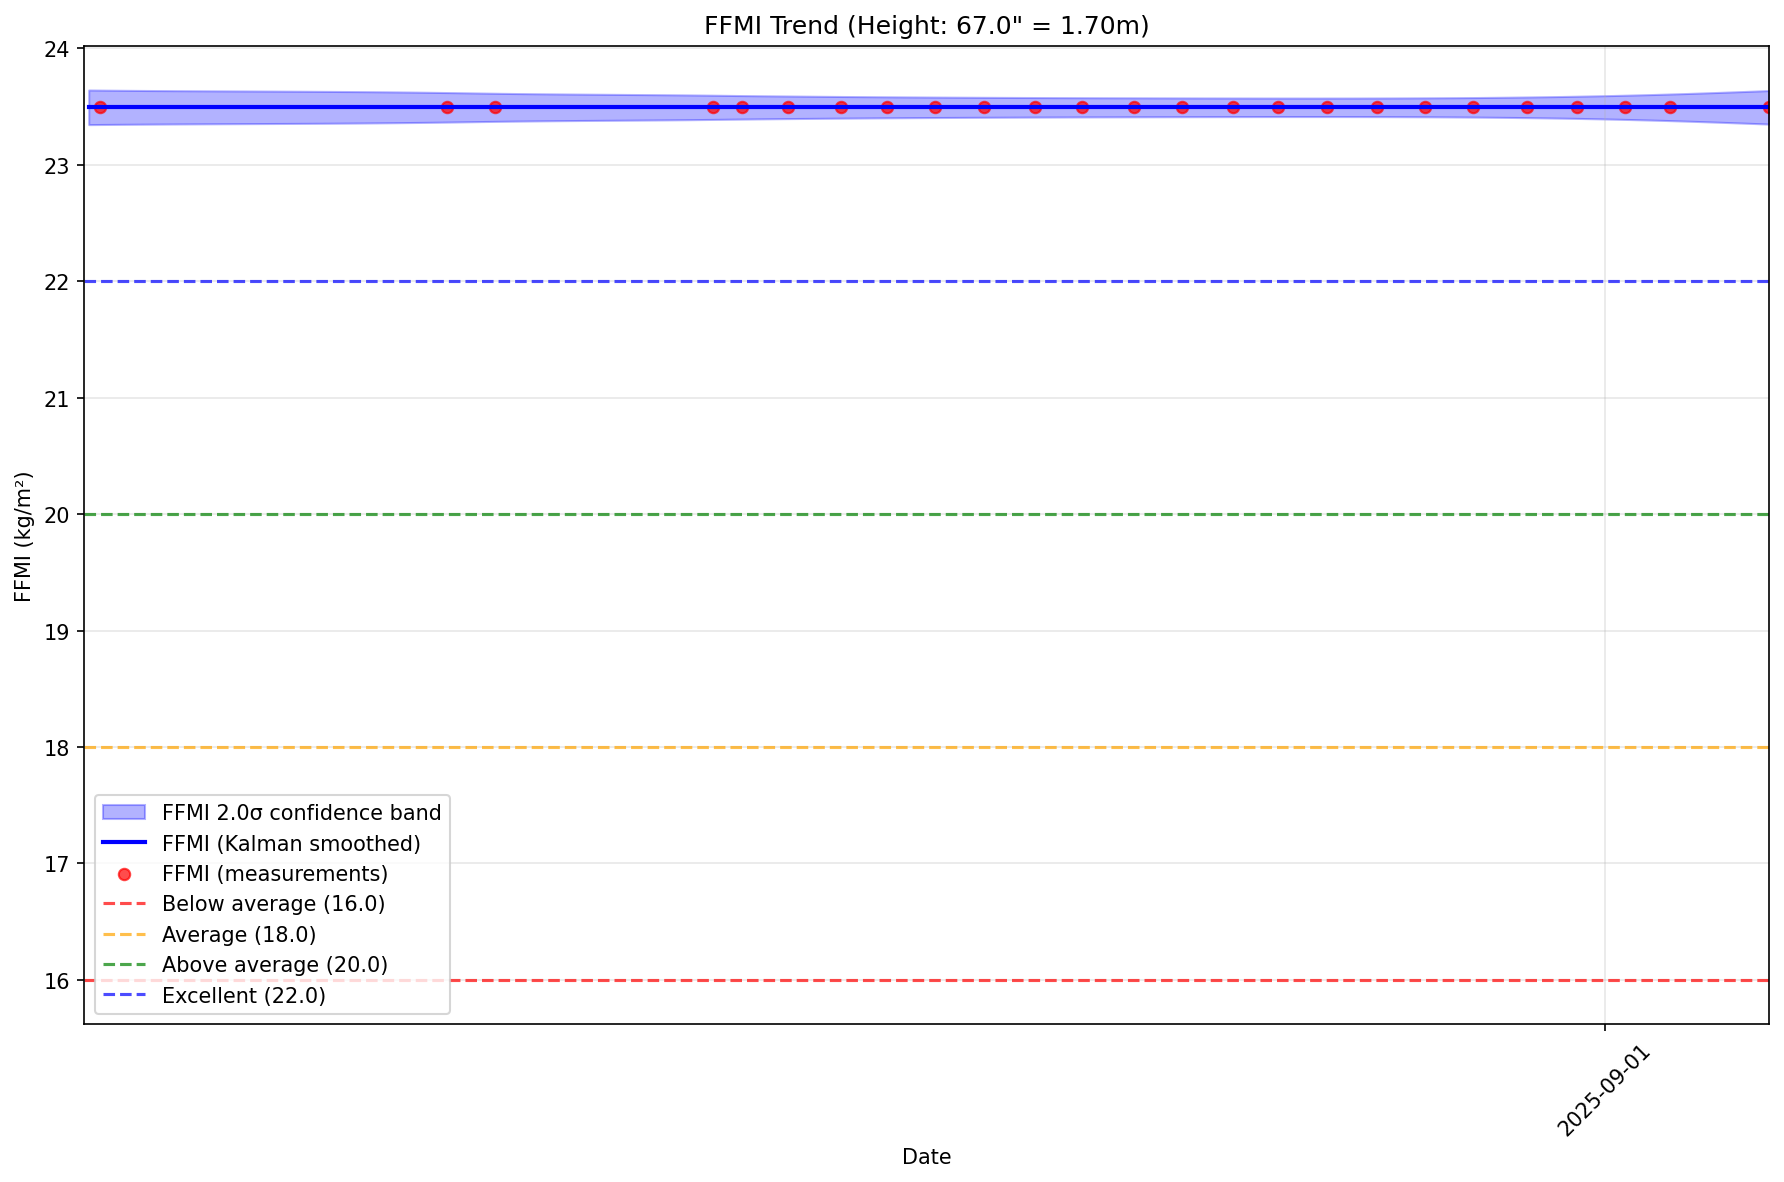
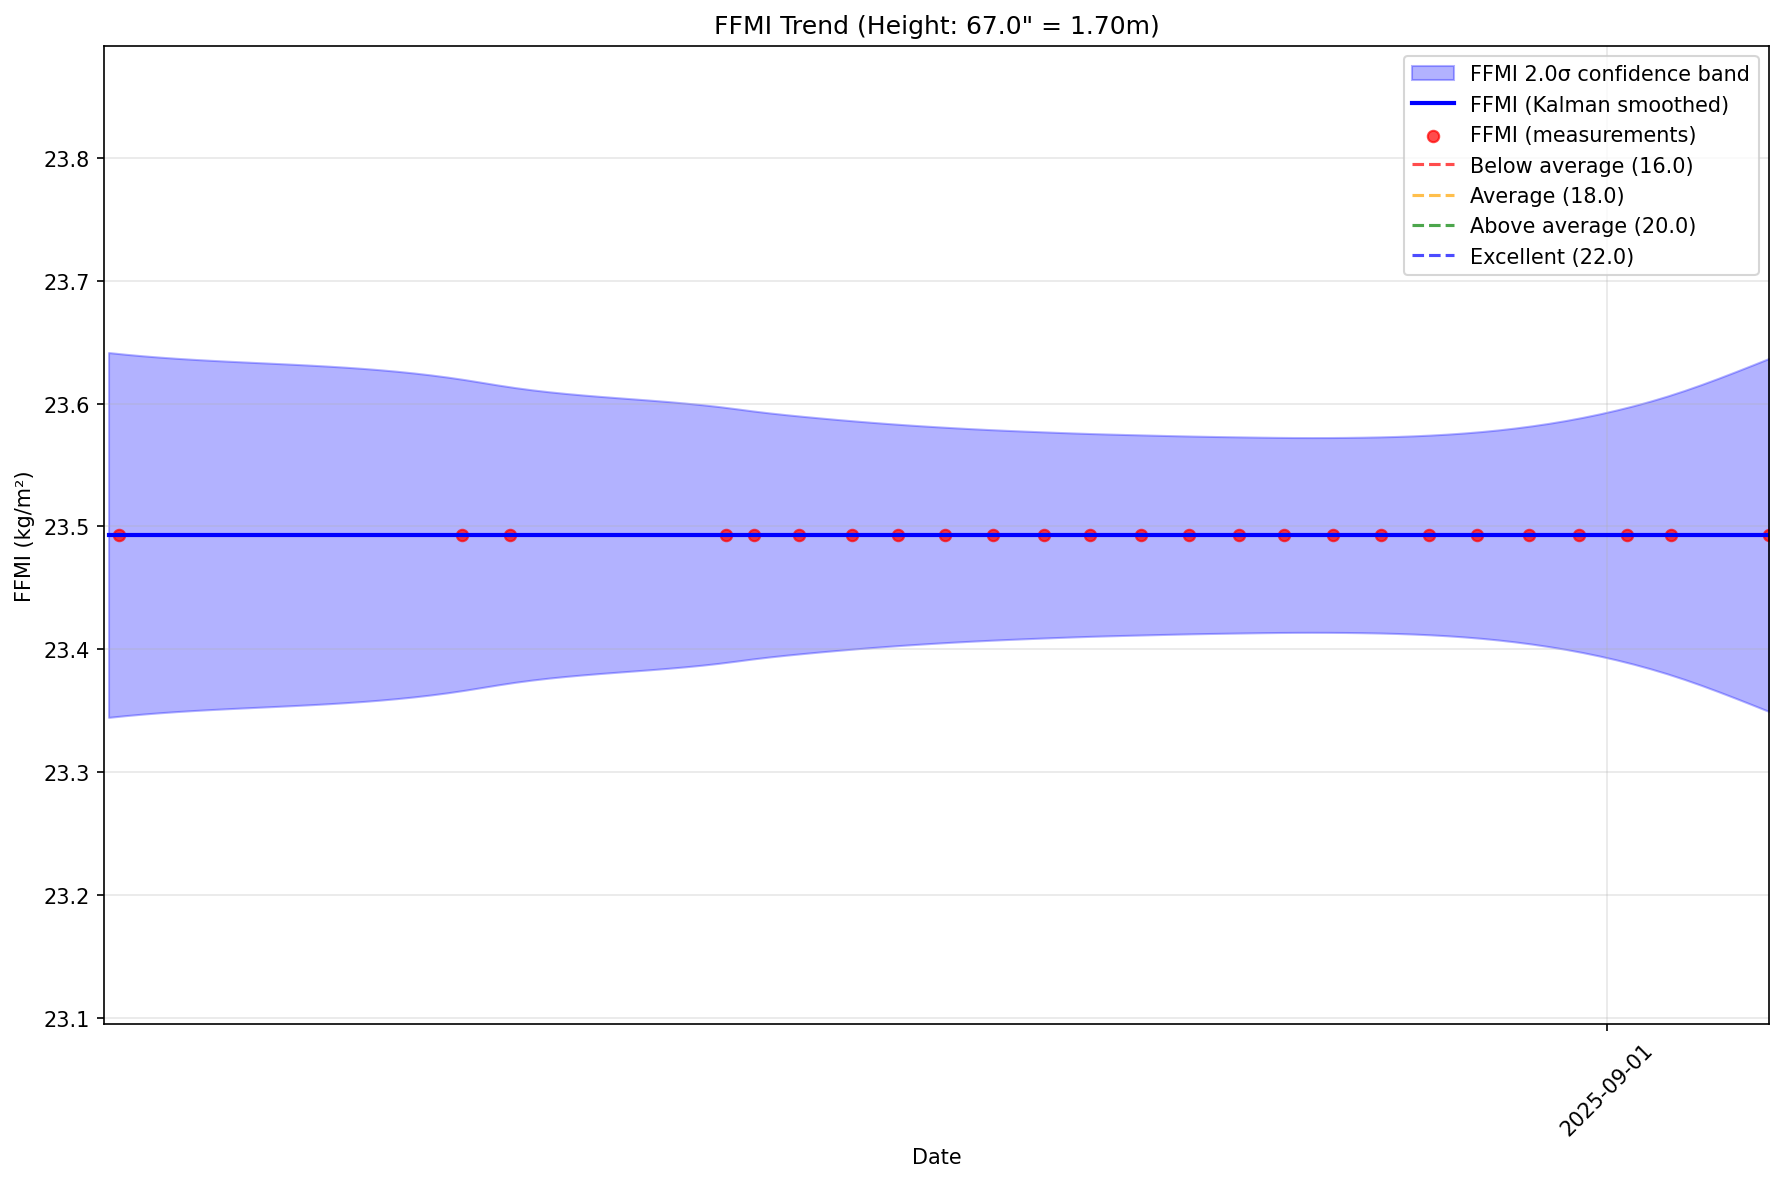
fixed plot range issues

diff --git a/kalman.py b/kalman.py
@@ -625,8 +625,10 @@ def create_kalman_plot(entries,
              linewidth=2, label=label, 
              antialiased=True, solid_capstyle='round')
     
-    # Plot raw data
-    raw_weights = [e.weight for e in entries]
+    # Plot raw data (filter to selected date range for display)
+    plotted_entries = filtered_entries if (start_date or end_date) else entries
+    entry_datetimes = [e.entry_datetime for e in plotted_entries]
+    raw_weights = [e.weight for e in plotted_entries]
     plt.scatter(entry_datetimes, raw_weights, s=50, color='blue', 
                 alpha=0.7, label='Raw Measurements', zorder=5)
     
@@ -683,26 +685,48 @@ Forecasts:
     plt.grid(True, alpha=0.3)
     plt.legend()
     
-    # Set x-axis limits based on date filtering
+    # Set x-axis limits based on filtered dense curve for a natural view
+    dense_min = min(dense_datetimes) if dense_datetimes else (min(entry_datetimes) if entry_datetimes else None)
+    dense_max = max(dense_datetimes) if dense_datetimes else (max(entry_datetimes) if entry_datetimes else None)
     if start_date or end_date:
-        min_datetime = min(dates) if dates else None
-        max_datetime = max(dates) if dates else None
-        if start_date:
-            start_datetime = dt.combine(start_date, dt.min.time())
-            plt.xlim(left=start_datetime)
-        elif min_datetime is not None:
-            plt.xlim(left=min_datetime)
-        if end_date:
-            end_datetime = dt.combine(end_date, dt.max.time())
-            plt.xlim(right=end_datetime)
-        elif max_datetime is not None:
-            plt.xlim(right=max_datetime)
+        left = dt.combine(start_date, dt.min.time()) if start_date else dense_min
+        right = dt.combine(end_date, dt.max.time()) if end_date else dense_max
     else:
-        # Default to full data range when no explicit start/end dates are provided
-        if dates:
-            min_datetime = min(dates)
-            max_datetime = max(dates)
-            plt.xlim(left=min_datetime, right=max_datetime)
+        left, right = dense_min, dense_max
+    if left is not None and right is not None and left <= right:
+        span = right - left
+        pad = max(span * 0.02, timedelta(days=1))
+        left_pad = left if start_date else (left - pad)
+        right_pad = right if end_date else (right + pad)
+        plt.xlim(left=left_pad, right=right_pad)
+    
+    # After setting x-limits, set Y-limits based on visible series (bands, mean, points)
+    try:
+        y_values: List[float] = []
+        if lower_band and upper_band:
+            y_values.extend([float(v) for v in lower_band])
+            y_values.extend([float(v) for v in upper_band])
+        if dense_means:
+            y_values.extend([float(v) for v in dense_means])
+        if raw_weights:
+            y_values.extend([float(v) for v in raw_weights])
+        if y_values:
+            y_min = float(np.nanmin(np.array(y_values, dtype=float)))
+            y_max = float(np.nanmax(np.array(y_values, dtype=float)))
+            if not np.isfinite(y_min) or not np.isfinite(y_max):
+                raise ValueError("Non-finite y-range")
+            if y_min == y_max:
+                y_pad = 0.5 if y_min == 0 else abs(y_min) * 0.05
+                plt.ylim(y_min - y_pad, y_max + y_pad)
+            else:
+                y_span = y_max - y_min
+                y_pad = max(0.02 * y_span, 0.25)
+                plt.ylim(y_min - y_pad, y_max + y_pad)
+    except Exception:
+        # Fallback to autoscale if anything goes wrong
+        ax = plt.gca()
+        ax.relim()
+        ax.autoscale_view(scalex=False, scaley=True)
     
     plt.tight_layout()
     
@@ -908,8 +932,25 @@ def create_bodyfat_plot_from_kalman(
     plt.plot(dense_datetimes, bf_mid, "-", color="#1f77b4", linewidth=2.4,
              label="Midline (10% lean, 90% fat)")
 
-    # Scatter actual points under mid assumption
-    plt.scatter(entry_datetimes, entry_bf_mid, s=36, color="#1f77b4", alpha=0.8,
+    # Scatter actual points under mid assumption (filter entries for display)
+    if start_date or end_date:
+        ed_filtered_dt = []
+        ed_filtered_bf = []
+        for dt_i, bf_i in zip(entry_datetimes, entry_bf_mid):
+            d = dt_i.date()
+            if start_date and d < start_date:
+                continue
+            if end_date and d > end_date:
+                continue
+            ed_filtered_dt.append(dt_i)
+            ed_filtered_bf.append(bf_i)
+        entry_datetimes_plot = ed_filtered_dt
+        entry_bf_mid_plot = ed_filtered_bf
+    else:
+        entry_datetimes_plot = entry_datetimes
+        entry_bf_mid_plot = entry_bf_mid
+
+    plt.scatter(entry_datetimes_plot, entry_bf_mid_plot, s=36, color="#1f77b4", alpha=0.8,
                 edgecolors="white", linewidths=0.5, zorder=5, label="Mid assumption (measurements)")
 
     # Stats panel: current estimate, rate, and forecasts (1wk, 1mo)
@@ -1026,27 +1067,49 @@ def create_bodyfat_plot_from_kalman(
     plt.grid(True, alpha=0.3)
     plt.legend()
     
-    # Set x-axis limits based on date filtering
+    # Set x-axis using filtered dense range with padding so bands stay inside
+    dense_min = min(dense_datetimes) if dense_datetimes else None
+    dense_max = max(dense_datetimes) if dense_datetimes else None
     if start_date or end_date:
-        min_datetime = min(dates) if dates else None
-        max_datetime = max(dates) if dates else None
-        if start_date:
-            start_datetime = dt.combine(start_date, dt.min.time())
-            plt.xlim(left=start_datetime)
-        elif min_datetime is not None:
-            plt.xlim(left=min_datetime)
-        if end_date:
-            end_datetime = dt.combine(end_date, dt.max.time())
-            plt.xlim(right=end_datetime)
-        elif max_datetime is not None:
-            plt.xlim(right=max_datetime)
+        left = dt.combine(start_date, dt.min.time()) if start_date else dense_min
+        right = dt.combine(end_date, dt.max.time()) if end_date else dense_max
     else:
-        # Default to full data range when no explicit start/end dates are provided
-        if dates:
-            min_datetime = min(dates)
-            max_datetime = max(dates)
-            plt.xlim(left=min_datetime, right=max_datetime)
+        left, right = dense_min, dense_max
+    if left is not None and right is not None and left <= right:
+        span = right - left
+        pad = max(span * 0.02, timedelta(days=1))
+        left_pad = left if start_date else (left - pad)
+        right_pad = right if end_date else (right + pad)
+        plt.xlim(left=left_pad, right=right_pad)
     
+    # After setting x-limits, compute Y-limits from visible series
+    try:
+        y_values: List[float] = []
+        # Confidence band and midline
+        y_values.extend([float(v) for v in bf_band_lower])
+        y_values.extend([float(v) for v in bf_band_upper])
+        y_values.extend([float(v) for v in bf_mid])
+        # Optional scenario bounds
+        if show_scenarios:
+            y_values.extend([float(v) for v in bf_lower_bound])
+            y_values.extend([float(v) for v in bf_upper_bound])
+        # Scatter points
+        y_values.extend([float(v) for v in entry_bf_mid_plot])
+        if y_values:
+            y_min = float(np.nanmin(np.array(y_values, dtype=float)))
+            y_max = float(np.nanmax(np.array(y_values, dtype=float)))
+            if y_min == y_max:
+                y_pad = 0.5 if y_min == 0 else abs(y_min) * 0.05
+                plt.ylim(y_min - y_pad, y_max + y_pad)
+            else:
+                y_span = y_max - y_min
+                y_pad = max(0.02 * y_span, 0.25)
+                plt.ylim(y_min - y_pad, y_max + y_pad)
+    except Exception:
+        ax = plt.gca()
+        ax.relim()
+        ax.autoscale_view(scalex=False, scaley=True)
+
     plt.tight_layout()
     plt.savefig(output_path, dpi=150, bbox_inches="tight")
     if no_display:
@@ -1217,8 +1280,25 @@ def create_bmi_plot_from_kalman(
     # BMI mean line
     plt.plot(dense_datetimes, bmi_means, "b-", linewidth=2, label="BMI (Kalman smoothed)")
 
-    # Scatter points for actual measurements
-    plt.scatter(entry_datetimes, entry_bmi, color="red", s=30, alpha=0.7, label="BMI (measurements)")
+    # Scatter points for actual measurements (filter for display if date range set)
+    if start_date or end_date:
+        ed_filtered_dt = []
+        ed_filtered_bmi = []
+        for dt_i, bmi_i in zip(entry_datetimes, entry_bmi):
+            d = dt_i.date()
+            if start_date and d < start_date:
+                continue
+            if end_date and d > end_date:
+                continue
+            ed_filtered_dt.append(dt_i)
+            ed_filtered_bmi.append(bmi_i)
+        entry_datetimes_plot = ed_filtered_dt
+        entry_bmi_plot = ed_filtered_bmi
+    else:
+        entry_datetimes_plot = entry_datetimes
+        entry_bmi_plot = entry_bmi
+
+    plt.scatter(entry_datetimes_plot, entry_bmi_plot, color="red", s=30, alpha=0.7, label="BMI (measurements)")
 
     # BMI categories
     plt.axhline(y=18.5, color="green", linestyle="--", alpha=0.7, label="Underweight (18.5)")
@@ -1236,27 +1316,45 @@ def create_bmi_plot_from_kalman(
     plt.gca().xaxis.set_major_locator(plt.matplotlib.dates.MonthLocator(interval=3))
     plt.xticks(rotation=45)
     
-    # Set x-axis limits based on date filtering
+    # Set x-axis using filtered dense range with padding so bands stay inside
+    dense_min = min(dense_datetimes) if dense_datetimes else None
+    dense_max = max(dense_datetimes) if dense_datetimes else None
     if start_date or end_date:
-        min_datetime = min(dates) if dates else None
-        max_datetime = max(dates) if dates else None
-        if start_date:
-            start_datetime = dt.combine(start_date, dt.min.time())
-            plt.xlim(left=start_datetime)
-        elif min_datetime is not None:
-            plt.xlim(left=min_datetime)
-        if end_date:
-            end_datetime = dt.combine(end_date, dt.max.time())
-            plt.xlim(right=end_datetime)
-        elif max_datetime is not None:
-            plt.xlim(right=max_datetime)
+        left = dt.combine(start_date, dt.min.time()) if start_date else dense_min
+        right = dt.combine(end_date, dt.max.time()) if end_date else dense_max
     else:
-        # Default to full data range when no explicit start/end dates are provided
-        if dates:
-            min_datetime = min(dates)
-            max_datetime = max(dates)
-            plt.xlim(left=min_datetime, right=max_datetime)
+        left, right = dense_min, dense_max
+    if left is not None and right is not None and left <= right:
+        span = right - left
+        pad = max(span * 0.02, timedelta(days=1))
+        left_pad = left if start_date else (left - pad)
+        right_pad = right if end_date else (right + pad)
+        plt.xlim(left=left_pad, right=right_pad)
     
+    # After setting x-limits, compute Y-limits from visible series
+    try:
+        y_values: List[float] = []
+        # Confidence band and mean line
+        y_values.extend([float(v) for v in bmi_lo])
+        y_values.extend([float(v) for v in bmi_hi])
+        y_values.extend([float(v) for v in bmi_means])
+        # Scatter points
+        y_values.extend([float(v) for v in entry_bmi_plot])
+        if y_values:
+            y_min = float(np.nanmin(np.array(y_values, dtype=float)))
+            y_max = float(np.nanmax(np.array(y_values, dtype=float)))
+            if y_min == y_max:
+                y_pad = 0.5 if y_min == 0 else abs(y_min) * 0.05
+                plt.ylim(y_min - y_pad, y_max + y_pad)
+            else:
+                y_span = y_max - y_min
+                y_pad = max(0.02 * y_span, 0.25)
+                plt.ylim(y_min - y_pad, y_max + y_pad)
+    except Exception:
+        ax = plt.gca()
+        ax.relim()
+        ax.autoscale_view(scalex=False, scaley=True)
+
     plt.tight_layout()
 
     plt.savefig(output_path, dpi=150, bbox_inches="tight")
@@ -1405,8 +1503,25 @@ def create_ffmi_plot_from_kalman(
     # FFMI mean line
     plt.plot(dense_datetimes, ffmi_means, "b-", linewidth=2, label="FFMI (Kalman smoothed)")
 
-    # Scatter points for actual measurements
-    plt.scatter(entry_datetimes, entry_ffmi, color="red", s=30, alpha=0.7, label="FFMI (measurements)")
+    # Scatter points for actual measurements (filter for display if date range set)
+    if start_date or end_date:
+        ed_filtered_dt = []
+        ed_filtered_ffmi = []
+        for dt_i, ffmi_i in zip(entry_datetimes, entry_ffmi):
+            d = dt_i.date()
+            if start_date and d < start_date:
+                continue
+            if end_date and d > end_date:
+                continue
+            ed_filtered_dt.append(dt_i)
+            ed_filtered_ffmi.append(ffmi_i)
+        entry_datetimes_plot = ed_filtered_dt
+        entry_ffmi_plot = ed_filtered_ffmi
+    else:
+        entry_datetimes_plot = entry_datetimes
+        entry_ffmi_plot = entry_ffmi
+
+    plt.scatter(entry_datetimes_plot, entry_ffmi_plot, color="red", s=30, alpha=0.7, label="FFMI (measurements)")
 
     # FFMI reference lines (typical ranges for men)
     plt.axhline(y=16.0, color="red", linestyle="--", alpha=0.7, label="Below average (16.0)")
@@ -1446,6 +1561,30 @@ def create_ffmi_plot_from_kalman(
             max_datetime = max(dates)
             plt.xlim(left=min_datetime, right=max_datetime)
     
+    # After setting x-limits, compute Y-limits from visible series
+    try:
+        y_values: List[float] = []
+        # Confidence band and mean line
+        y_values.extend([float(v) for v in ffmi_lo])
+        y_values.extend([float(v) for v in ffmi_hi])
+        y_values.extend([float(v) for v in ffmi_means])
+        # Scatter points
+        y_values.extend([float(v) for v in entry_ffmi_plot])
+        if y_values:
+            y_min = float(np.nanmin(np.array(y_values, dtype=float)))
+            y_max = float(np.nanmax(np.array(y_values, dtype=float)))
+            if y_min == y_max:
+                y_pad = 0.5 if y_min == 0 else abs(y_min) * 0.05
+                plt.ylim(y_min - y_pad, y_max + y_pad)
+            else:
+                y_span = y_max - y_min
+                y_pad = max(0.02 * y_span, 0.25)
+                plt.ylim(y_min - y_pad, y_max + y_pad)
+    except Exception:
+        ax = plt.gca()
+        ax.relim()
+        ax.autoscale_view(scalex=False, scaley=True)
+
     plt.tight_layout()
 
     plt.savefig(output_path, dpi=150, bbox_inches="tight")

diff --git a/weight_tracker.py b/weight_tracker.py
@@ -375,9 +375,22 @@ def render_plot(entries: List[WeightEntry], ema_curve_dates: List[datetime], ema
         ema_filtered_dates = ema_curve_dates
         ema_filtered_values = ema_curve_values
     
-    # EMA curve and regression line
+    # EMA curve and regression line (filter regression to visible date range if needed)
     plt.plot(ema_filtered_dates, ema_filtered_values, "-", label="7-day EMA (spline)", color="#ff7f0e", linewidth=2, zorder=2)
-    plt.plot(dense_dates, y_reg, "--", label="Weighted regression", color="#000000", linewidth=2, zorder=1)
+    if start_date or end_date:
+        dense_filtered_dates = []
+        dense_filtered_y = []
+        for d, y in zip(dense_dates, y_reg):
+            d_date = d.date()
+            if start_date and d_date < start_date:
+                continue
+            if end_date and d_date > end_date:
+                continue
+            dense_filtered_dates.append(d)
+            dense_filtered_y.append(y)
+        plt.plot(dense_filtered_dates, dense_filtered_y, "--", label="Weighted regression", color="#000000", linewidth=2, zorder=1)
+    else:
+        plt.plot(dense_dates, y_reg, "--", label="Weighted regression", color="#000000", linewidth=2, zorder=1)
 
     plt.title("Weight Trend")
     plt.xlabel("Date")
@@ -393,25 +406,26 @@ def render_plot(entries: List[WeightEntry], ema_curve_dates: List[datetime], ema
             bbox=dict(boxstyle="round", facecolor="white", alpha=0.85, edgecolor="#cccccc"), zorder=10)
 
     # Set x-axis limits based on date filtering
+    # Set x-axis using filtered dense range with padding so bands stay inside
+    dense_min = min(dense_filtered_dates) if (start_date or end_date) and 'dense_filtered_dates' in locals() and dense_filtered_dates else (min(dense_dates) if dense_dates else (min(ema_filtered_dates) if ema_filtered_dates else None))
+    dense_max = max(dense_filtered_dates) if (start_date or end_date) and 'dense_filtered_dates' in locals() and dense_filtered_dates else (max(dense_dates) if dense_dates else (max(ema_filtered_dates) if ema_filtered_dates else None))
     if start_date or end_date:
-        min_datetime = min(ema_filtered_dates) if ema_filtered_dates else None
-        max_datetime = max(ema_filtered_dates) if ema_filtered_dates else None
-        if start_date:
-            start_datetime = datetime.combine(start_date, datetime.min.time())
-            plt.xlim(left=start_datetime)
-        elif min_datetime is not None:
-            plt.xlim(left=min_datetime)
-        if end_date:
-            end_datetime = datetime.combine(end_date, datetime.max.time())
-            plt.xlim(right=end_datetime)
-        elif max_datetime is not None:
-            plt.xlim(right=max_datetime)
+        left = datetime.combine(start_date, datetime.min.time()) if start_date else dense_min
+        right = datetime.combine(end_date, datetime.max.time()) if end_date else dense_max
     else:
-        # Default to full data range when no explicit start/end dates are provided
-        if ema_filtered_dates:
-            min_datetime = min(ema_filtered_dates)
-            max_datetime = max(ema_filtered_dates)
-            plt.xlim(left=min_datetime, right=max_datetime)
+        left, right = dense_min, dense_max
+    if left is not None and right is not None and left <= right:
+        span = right - left
+        from datetime import timedelta as _td
+        pad = max(span * 0.02, _td(days=1))
+        left_pad = left if start_date else (left - pad)
+        right_pad = right if end_date else (right + pad)
+        plt.xlim(left=left_pad, right=right_pad)
+
+    # Autoscale Y after x-limits to fit visible data
+    ax = plt.gca()
+    ax.relim()
+    ax.autoscale_view(scalex=False, scaley=True)
 
     plt.tight_layout()
     plt.savefig(output_path, dpi=150)
